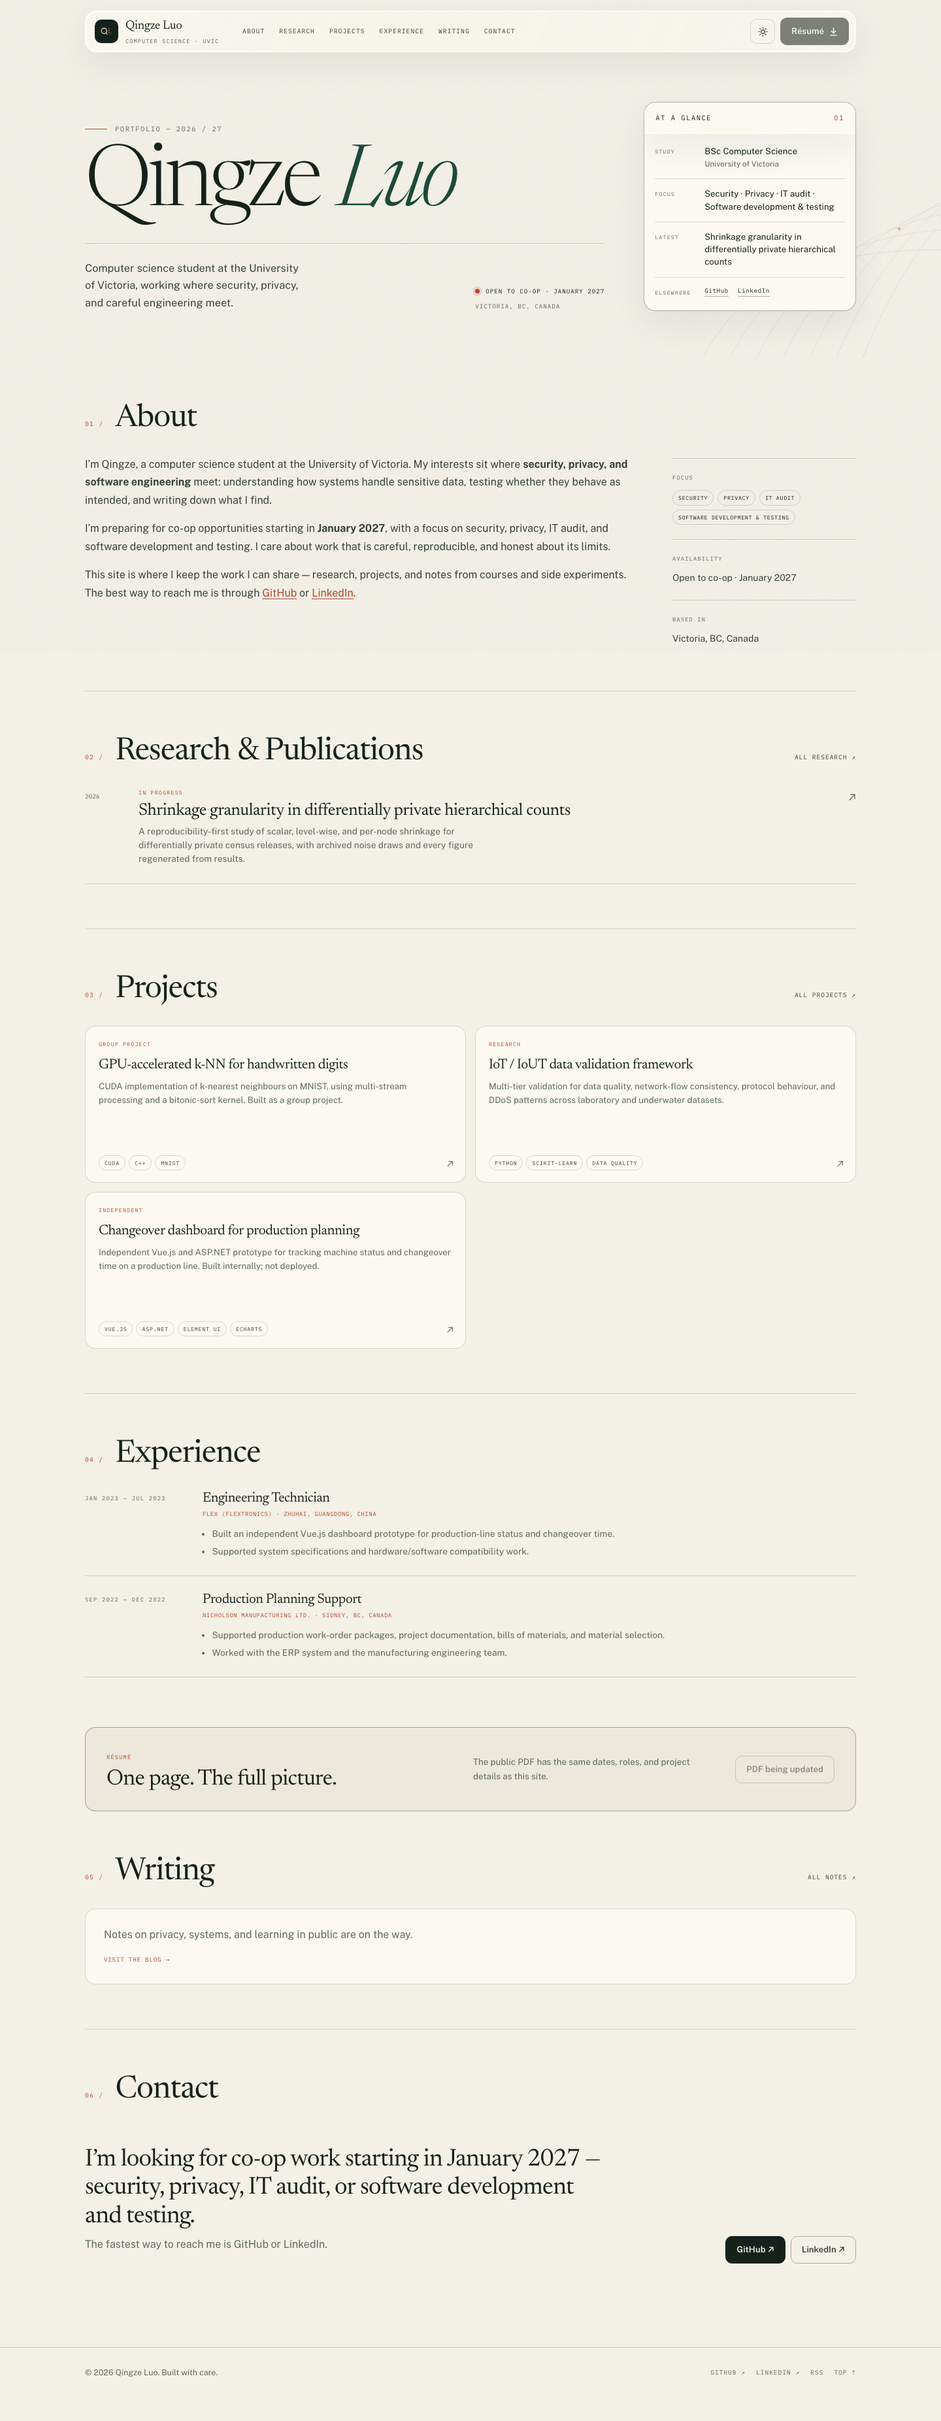
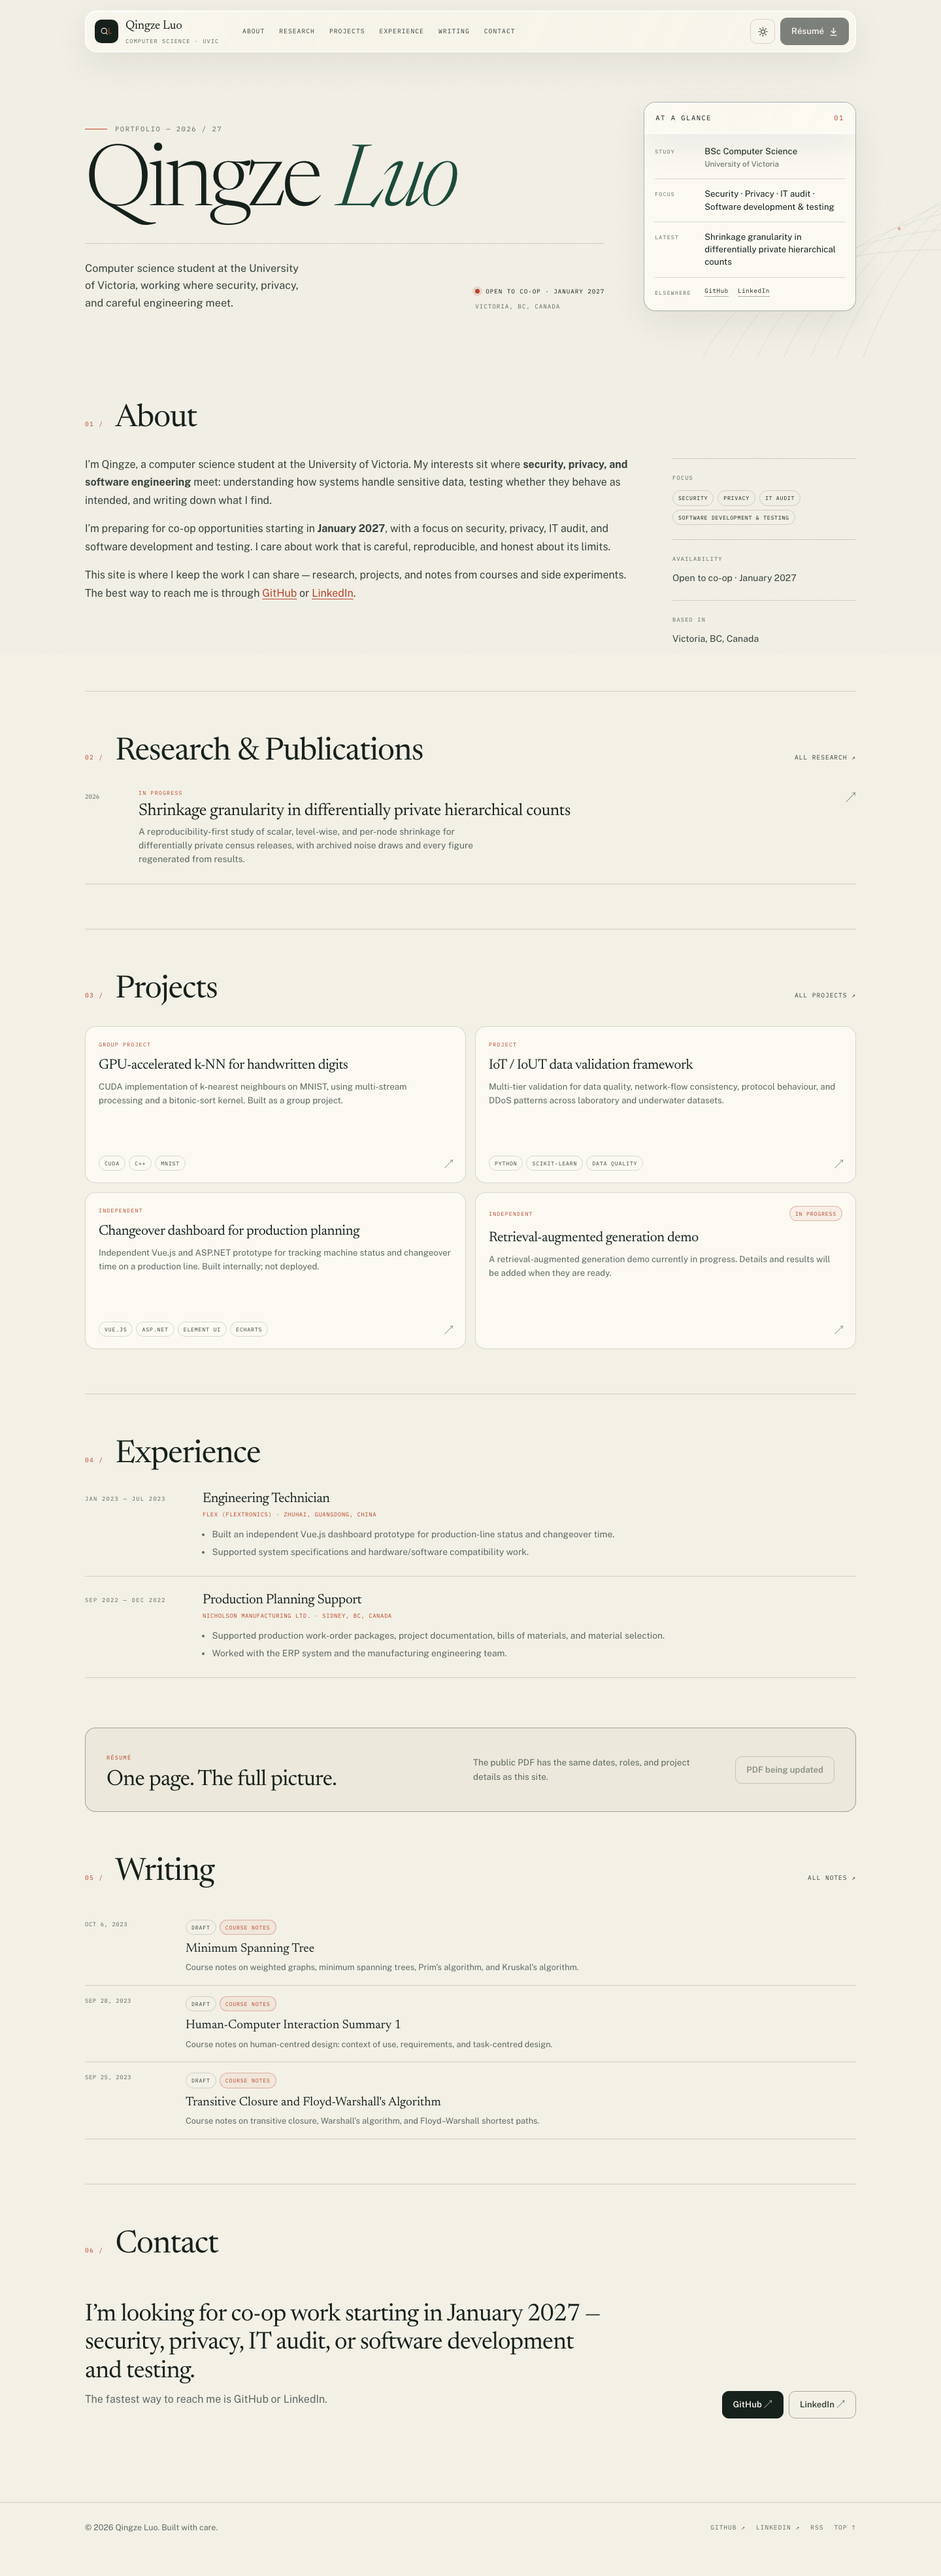
Polish blog dates, draft labels, and font fallbacks

diff --git a/src/styles/global.css b/src/styles/global.css
@@ -55,8 +55,8 @@
   --glass-edge-solid: rgba(22, 33, 28, 0.22);
 
   --font-display: "Newsreader", Georgia, "Times New Roman", serif;
-  --font-body: "Public Sans", system-ui, -apple-system, "Segoe UI", sans-serif;
-  --font-mono: "IBM Plex Mono", ui-monospace, SFMono-Regular, Menlo, monospace;
+  --font-body: "Public Sans", "Helvetica Neue", Arial, sans-serif;
+  --font-mono: "IBM Plex Mono", "Courier New", monospace;
 
   --wrap: 1180px;
   --gutter: 32px;

diff --git a/src/content.config.ts b/src/content.config.ts
@@ -47,7 +47,7 @@ const projects = defineCollection({
     title: z.string(),
     summary: z.string(),
     year: z.number().int(),
-    kind: z.enum(['research', 'group', 'independent', 'coursework']),
+    kind: z.enum(['research', 'group', 'independent', 'coursework', 'project']),
     status: z.enum(['completed', 'in-progress']).default('completed'),
     role: z.string().optional(),
     team: z.string().optional(),

diff --git a/src/content/projects/iot-iout-validation.md b/src/content/projects/iot-iout-validation.md
@@ -2,7 +2,7 @@
 title: "IoT / IoUT data validation framework"
 summary: "Multi-tier validation for data quality, network-flow consistency, protocol behaviour, and DDoS patterns across laboratory and underwater datasets."
 year: 2025
-kind: research
+kind: project
 status: completed
 tags:
   - Python
